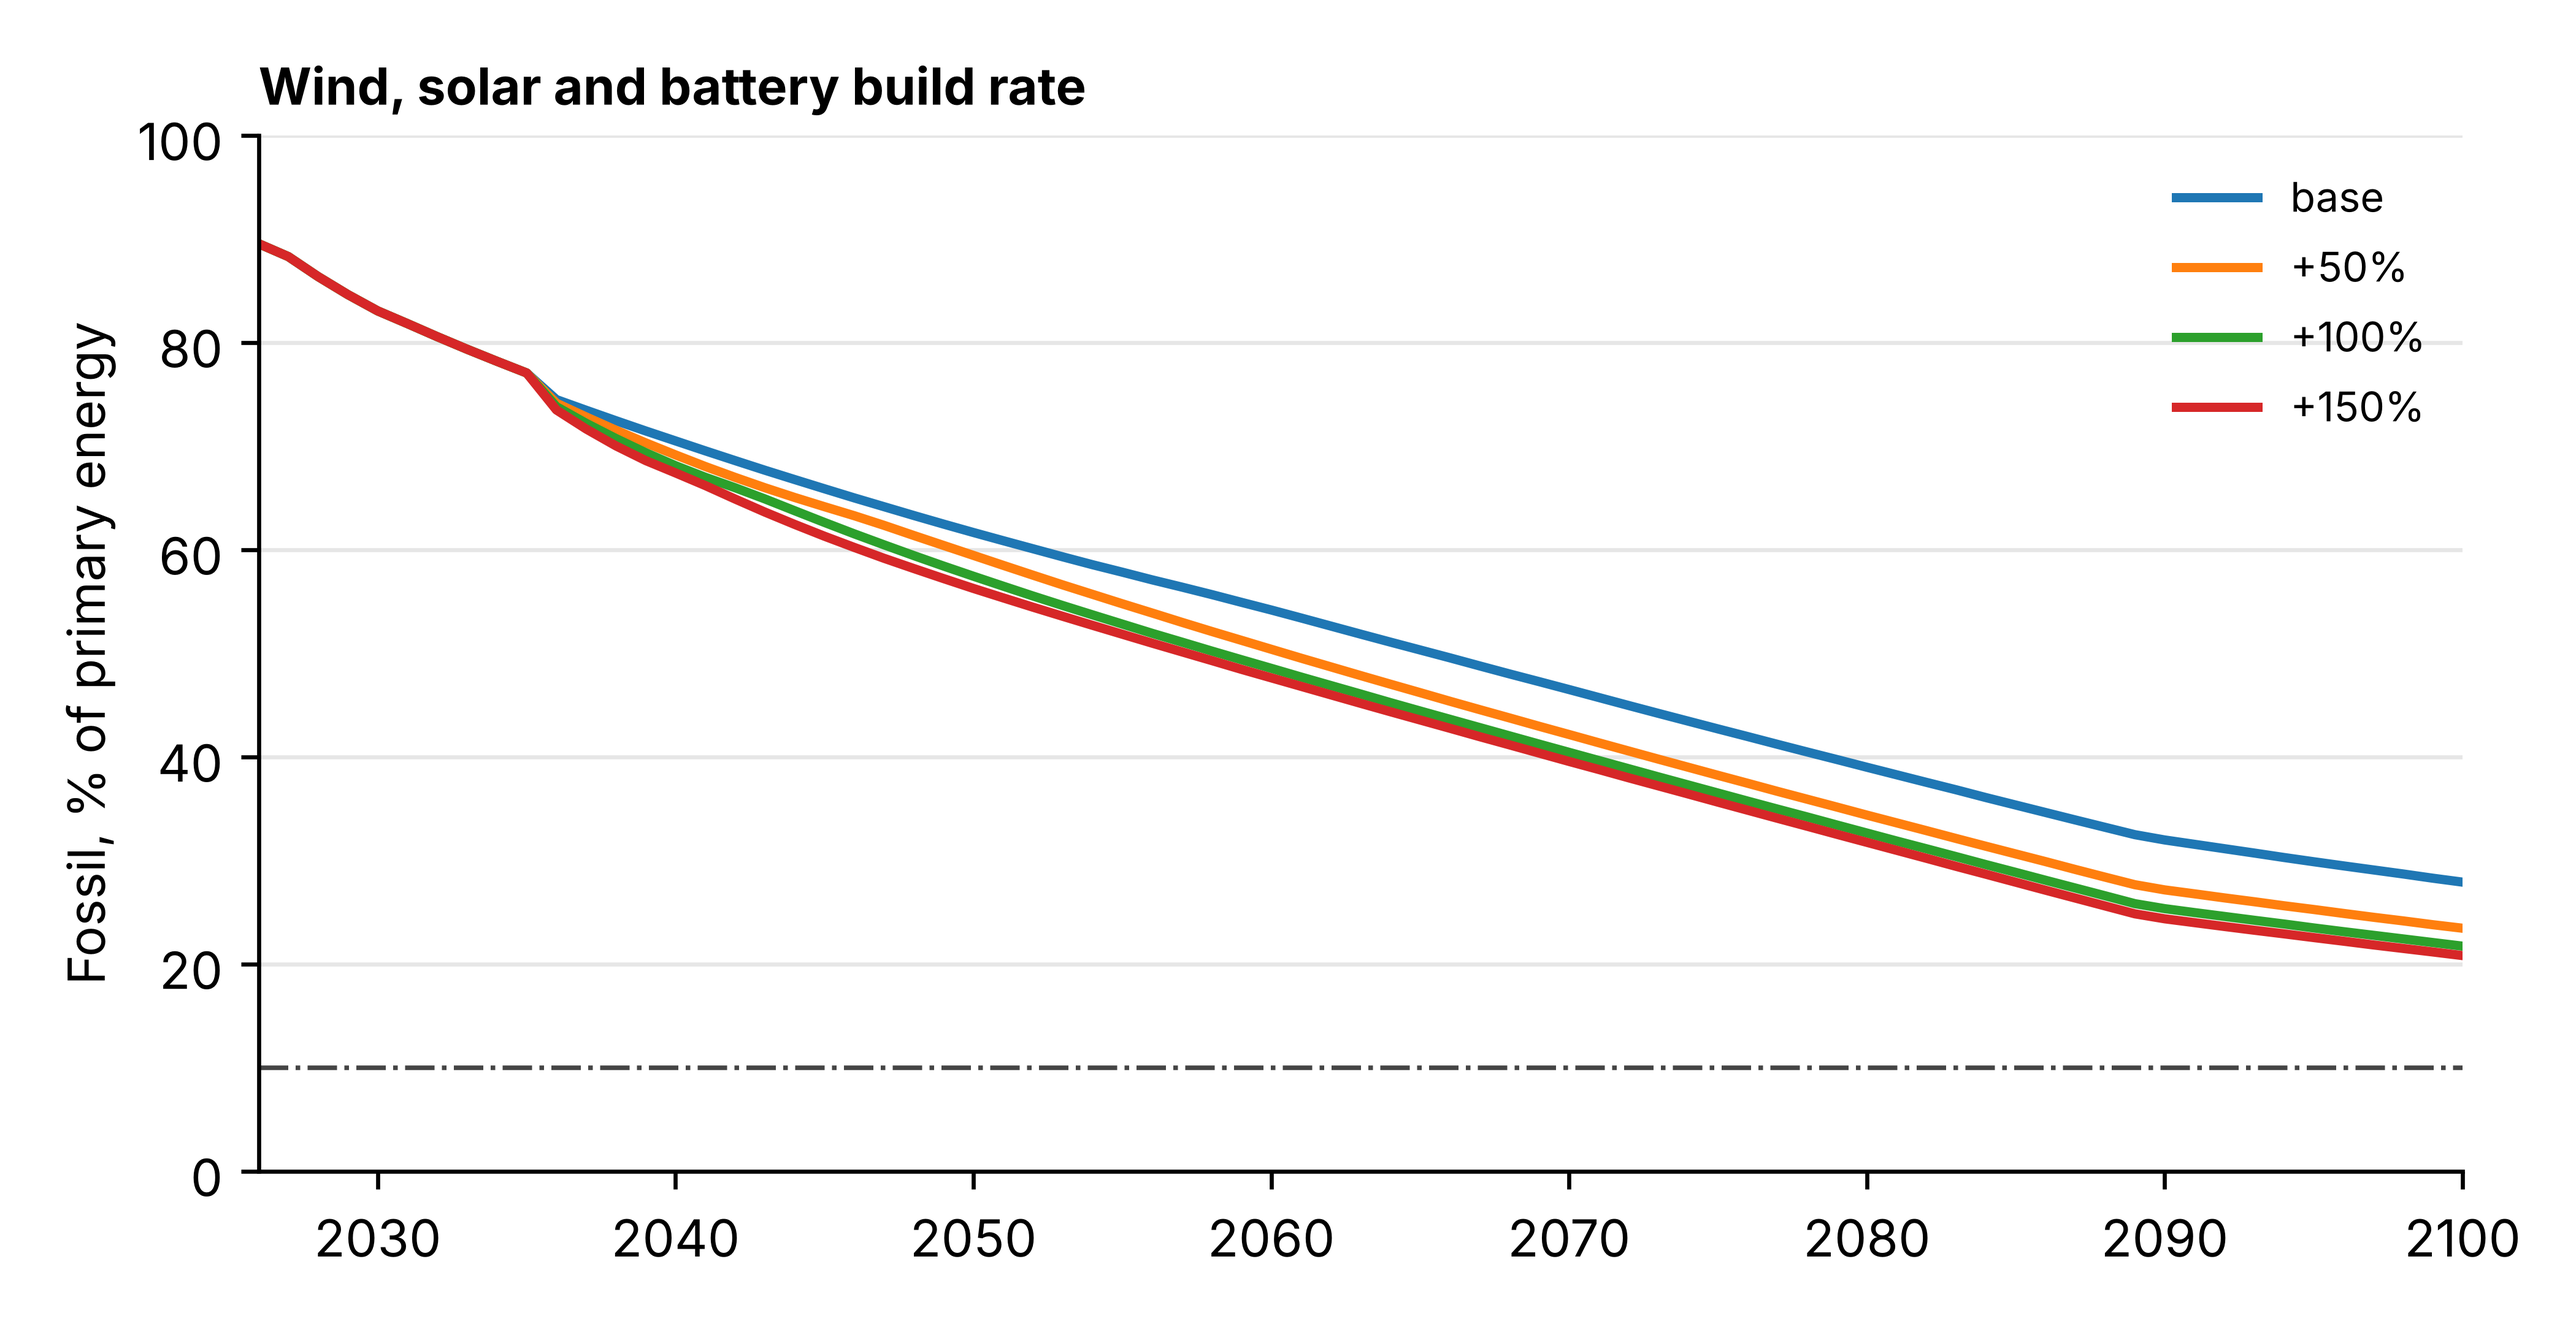
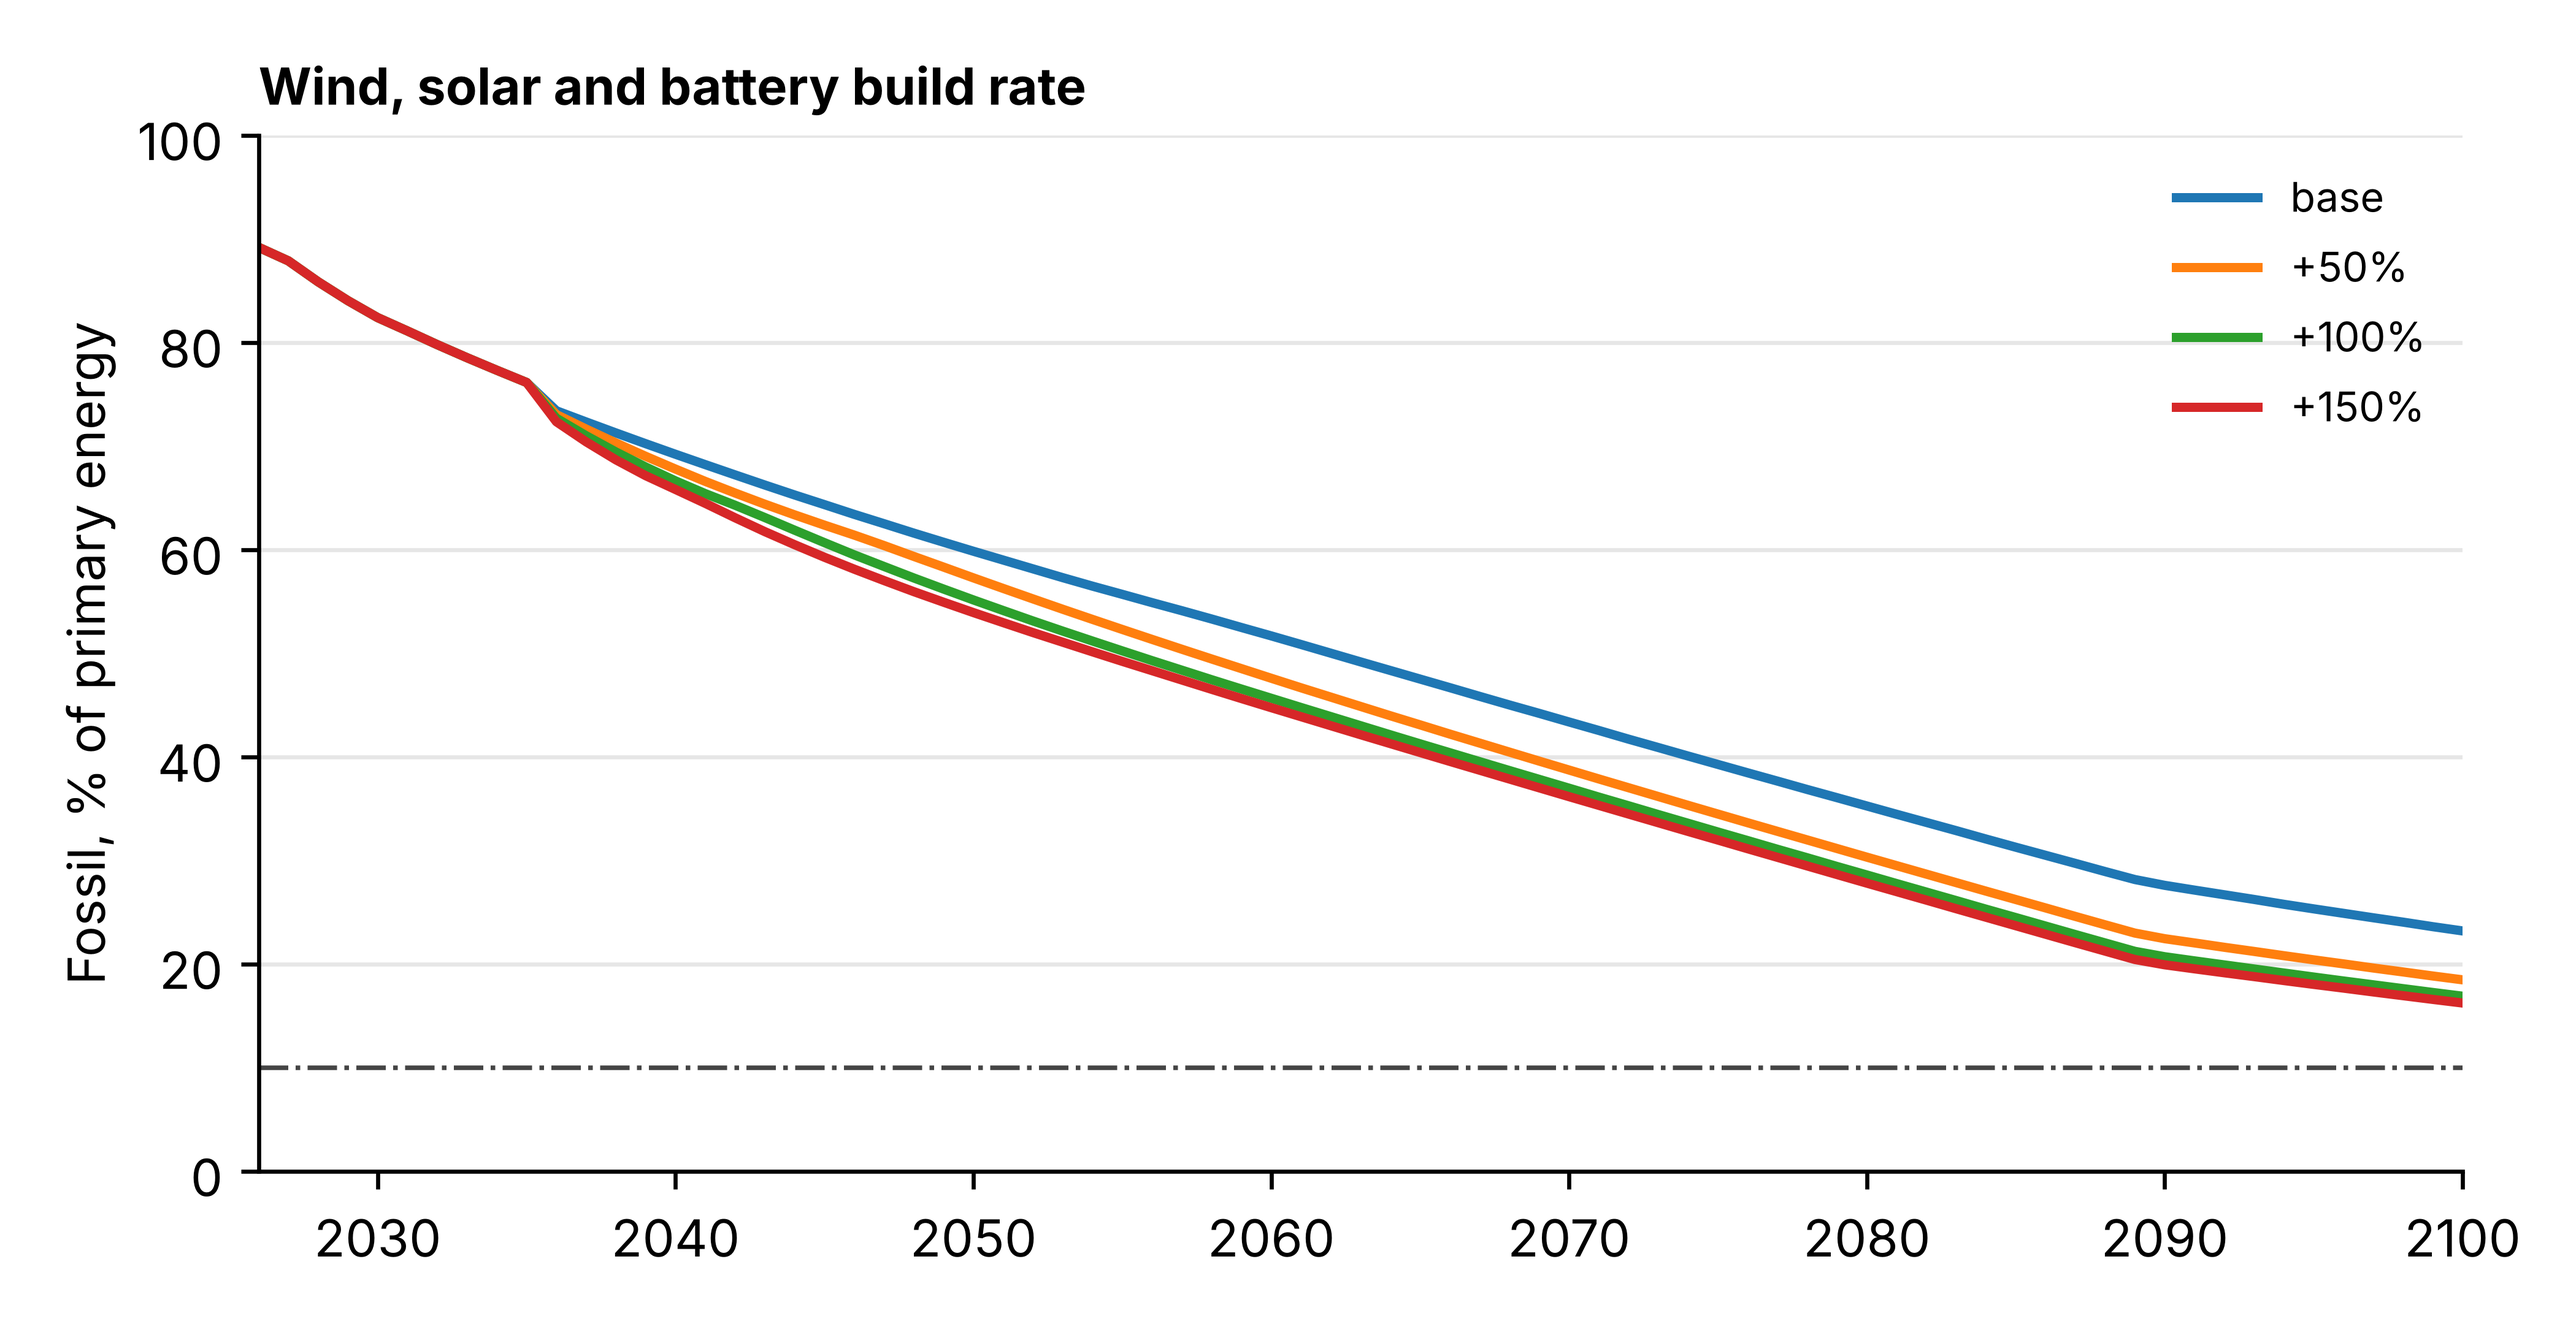
Rerun analyses after residual removal; refit headroom cover
Claude-Session: https://claude.ai/code/session_011KZyoaicdRYGNhf5ejQ2wT

diff --git a/analysis/output/sensitivity/sensitivity_tables.md b/analysis/output/sensitivity/sensitivity_tables.md
@@ -2,34 +2,34 @@
 
 | change   |   demand_TWh |   wind_GW |   solar_GW |   fossil_pct |   renewable_pct |   constraint_pct |   curtailment_pct |   wind_cf_pct |   solar_cf_pct |   firm_GW |
 |:---------|-------------:|----------:|-----------:|-------------:|----------------:|-----------------:|------------------:|--------------:|---------------:|----------:|
-| base     |         74   |      24.6 |       20.6 |         61.7 |            38.3 |                0 |              32   |          19.2 |            7.7 |      13.2 |
-| +50%     |         77.4 |      24.6 |       20.6 |         56.5 |            43.5 |                0 |              30.2 |          19.8 |            7.9 |      14.3 |
-| +100%    |         80.8 |      24.6 |       20.6 |         51   |            49   |                0 |              28.5 |          20.4 |            8.1 |      15.4 |
-| +150%    |         84.1 |      24.6 |       20.6 |         45.2 |            54.8 |                0 |              26.8 |          21   |            8.3 |      16.5 |
+| base     |         74   |      24.6 |       20.6 |         59.8 |            40.2 |                0 |              29.4 |          19.8 |            8.3 |      13.2 |
+| +50%     |         77.4 |      24.6 |       20.6 |         54.5 |            45.5 |                0 |              27.5 |          20.5 |            8.5 |      14.3 |
+| +100%    |         80.8 |      24.6 |       20.6 |         48.8 |            51.2 |                0 |              25.7 |          21.1 |            8.7 |      15.4 |
+| +150%    |         84.1 |      24.6 |       20.6 |         42.7 |            57.3 |                0 |              24   |          21.6 |            8.9 |      16.5 |
 
 ### Heat and transport electrification pace, 2100
 
 | change   |   demand_TWh |   wind_GW |   solar_GW |   fossil_pct |   renewable_pct |   constraint_pct |   curtailment_pct |   wind_cf_pct |   solar_cf_pct |   firm_GW |
 |:---------|-------------:|----------:|-----------:|-------------:|----------------:|-----------------:|------------------:|--------------:|---------------:|----------:|
-| base     |        128.8 |      58.3 |       56.6 |         27.9 |            72.1 |                0 |              47.8 |          15.2 |            5.4 |      21.8 |
-| +50%     |        132.3 |      58.3 |       56.6 |         20.2 |            79.8 |                0 |              46.8 |          15.6 |            5.4 |      24   |
-| +100%    |        132.6 |      58.3 |       56.6 |         16.8 |            83.2 |                0 |              46.8 |          15.6 |            5.4 |      24.8 |
-| +150%    |        130.6 |      58.3 |       56.6 |         16.4 |            83.6 |                0 |              47.5 |          15.4 |            5.3 |      24.6 |
+| base     |        128.8 |      58.3 |       56.6 |         23.2 |            76.8 |                0 |              45.8 |          15.7 |            5.8 |      21.8 |
+| +50%     |        132.3 |      58.3 |       56.6 |         15.1 |            84.9 |                0 |              44.8 |          16   |            5.8 |      24   |
+| +100%    |        132.6 |      58.3 |       56.6 |         11.5 |            88.5 |                0 |              44.8 |          16.1 |            5.8 |      24.8 |
+| +150%    |        130.6 |      58.3 |       56.6 |         11.1 |            88.9 |                0 |              45.5 |          15.9 |            5.7 |      24.6 |
 
 ### Wind, solar and battery build rate, 2050
 
 | change   |   demand_TWh |   wind_GW |   solar_GW |   fossil_pct |   renewable_pct |   constraint_pct |   curtailment_pct |   wind_cf_pct |   solar_cf_pct |   firm_GW |
 |:---------|-------------:|----------:|-----------:|-------------:|----------------:|-----------------:|------------------:|--------------:|---------------:|----------:|
-| base     |           74 |      24.6 |       20.6 |         61.7 |            38.3 |                0 |              32   |          19.2 |            7.7 |      13.2 |
-| +50%     |           74 |      29.7 |       26   |         59.4 |            40.6 |                0 |              41   |          16.8 |            6.5 |      13.1 |
-| +100%    |           74 |      34.7 |       31.4 |         57.4 |            42.6 |                0 |              48.5 |          14.8 |            5.6 |      13   |
-| +150%    |           74 |      39.8 |       36.8 |         56.3 |            43.7 |                0 |              54.7 |          13.2 |            4.9 |      12.9 |
+| base     |           74 |      24.6 |       20.6 |         59.8 |            40.2 |                0 |              29.4 |          19.8 |            8.3 |      13.2 |
+| +50%     |           74 |      29.7 |       26   |         57.3 |            42.7 |                0 |              38.8 |          17.3 |            7   |      13.1 |
+| +100%    |           74 |      34.7 |       31.4 |         55.2 |            44.8 |                0 |              46.6 |          15.3 |            6   |      13   |
+| +150%    |           74 |      39.8 |       36.8 |         53.9 |            46.1 |                0 |              53   |          13.6 |            5.2 |      12.9 |
 
 ### Wind, solar and battery build rate, 2100
 
 | change   |   demand_TWh |   wind_GW |   solar_GW |   fossil_pct |   renewable_pct |   constraint_pct |   curtailment_pct |   wind_cf_pct |   solar_cf_pct |   firm_GW |
 |:---------|-------------:|----------:|-----------:|-------------:|----------------:|-----------------:|------------------:|--------------:|---------------:|----------:|
-| base     |        128.8 |      58.3 |       56.6 |         27.9 |            72.1 |                0 |              47.8 |          15.2 |            5.4 |      21.8 |
-| +50%     |        128.8 |      80.2 |       80.1 |         23.5 |            76.5 |                0 |              61.4 |          11.7 |            4   |      21.4 |
-| +100%    |        128.8 |     102   |      103.6 |         21.7 |            78.3 |                0 |              69.7 |           9.5 |            3.1 |      21.1 |
-| +150%    |        128.8 |     123.9 |      127   |         20.8 |            79.2 |                0 |              75.1 |           8   |            2.6 |      20.5 |
+| base     |        128.8 |      58.3 |       56.6 |         23.2 |            76.8 |                0 |              45.8 |          15.7 |            5.8 |      21.8 |
+| +50%     |        128.8 |      80.2 |       80.1 |         18.5 |            81.5 |                0 |              59.9 |          12.1 |            4.3 |      21.4 |
+| +100%    |        128.8 |     102   |      103.6 |         16.9 |            83.1 |                0 |              68.5 |           9.8 |            3.4 |      21.1 |
+| +150%    |        128.8 |     123.9 |      127   |         16.2 |            83.8 |                0 |              74.1 |           8.2 |            2.8 |      20.5 |

diff --git a/CHANGELOG.md b/CHANGELOG.md
@@ -3,6 +3,28 @@
 Handover record of changes to `DemonstratorV2.py` and its data builder `build_all_island_dd.py`.
 The full methodology is in `Technical_Briefing_README.docx`.
 
+## Analyses rerun after the residual was removed: 14 November 2026
+
+Follows PR #65. Reruns only; no code change. Outputs committed: `analysis/output/grid_reinforcement/`, `analysis/output/sensitivity/`, `analysis/output/cover_recalibration/`, and Figures 6 and 8 (`analysis/output/paper/`).
+
+Rerun: `analysis/grid_reinforcement_study.py`, `analysis/sensitivity_study.py`, `analysis/cover_recalibration.py`; both pathways with the published network path kept after 2035 (`reinforcement_steps = NI:2032:950` only); EirGrid_Extended with heat COP 2.5, firm efficiencies 60%/42% and 50%/34%, and offshore at 45% in 2020 (`GAMMA_OFFSHORE_CF=0.45`); both pathways with every firm unit at 35% and with COP 3.9 (constants changed in a copy of `Gamma.py`). The residual cases (zero and doubled) no longer exist. Not rerun: the GSS-2 prediction, Supplementary S5 to S8, Figures 4, 5 and 7, and the network-frozen and sigma cases of the robustness study.
+
+Decision needed. The 40% headroom cover (`headroom_pipeline_cover_pct`) was fitted before the residual was removed. Refitted against ECP-GSS-1 on the constraint as Gamma removes it, the best cover is now 60% (RMS error 0.35 points). On total dispatch down and on EirGrid's category order the best fit is 0%. The validation scenarios still use 40%; it is not changed here.
+
+| Fossil share of primary energy (%), 2050 unless stated | Before | Now |
+|---|---|---|
+| Published network path kept, EirGrid_Extended / Historical_Trend | 64.2 / not recorded | 62.6 / 73.0 |
+| IE headroom growth 0 / 1 / 2 / 4 / 7.3% a year, limits kept | 64.4 / 63.9 / 63.5 / 62.9 / 62.2 | 62.9 / 62.4 / 61.9 / 61.2 / 60.5 |
+| Electrification +150% / build +150% | 45.2 / 56.3 | 42.7 / 53.9 |
+| Heat COP 2.5 | 64.2 | 62.4 |
+| Firm efficiencies 60% and 42% / 50% and 34% | 61.1 / 62.3 | 59.4 / 60.4 |
+| Offshore at 45% in 2020 | 61.3 | 59.4 |
+| Every firm unit at 35%: change (points), 2050 / 2100, EirGrid_Extended; Historical_Trend | 1.4 to 4.2 (both pathways) | +1.6 / +1.0; +2.2 / +3.9 |
+| COP 3.9: change (points), 2050 / 2100, EirGrid_Extended; Historical_Trend | -0.8 to -2.4 (both pathways) | -1.0 / -2.5; -0.8 / -1.8 |
+| Marginal yield of next 10.5 GW / 10.5 GW after, 0% a year, TWh/GW (fleet average) | 0.33 / 0.23 (1.18) | 0.34 / 0.24 (1.22) |
+
+Paper: update after review. Tables 5, 6 and 8, the validation sentences, Section 7.3, the abstract and the highlights all move; the 2100 result is unchanged (neither pathway reaches 10% fossil share).
+
 ## Fixed residual curtailment removed: 14 November 2026
 
 Change to the model. The residual ('other') curtailment is removed. It was the recorded 2026 curtailment less the curtailment the operating rules simulate, held in every later year and supplied by firm plant. Curtailment is now only what the SNSP and minimum generation ceilings remove, and firm generation is only what the dispatch needs. `GAMMA_RESIDUAL_SCALE`, `GAMMA_RESIDUAL_BASIS`, `SOLAR_OTHER_CURT_CALIBRATED` and the `other_curt_pct_2050` scenario input are gone, as are the `Other_incl_RoCoF_%` and `*_Curtail_Other_%` output columns.
